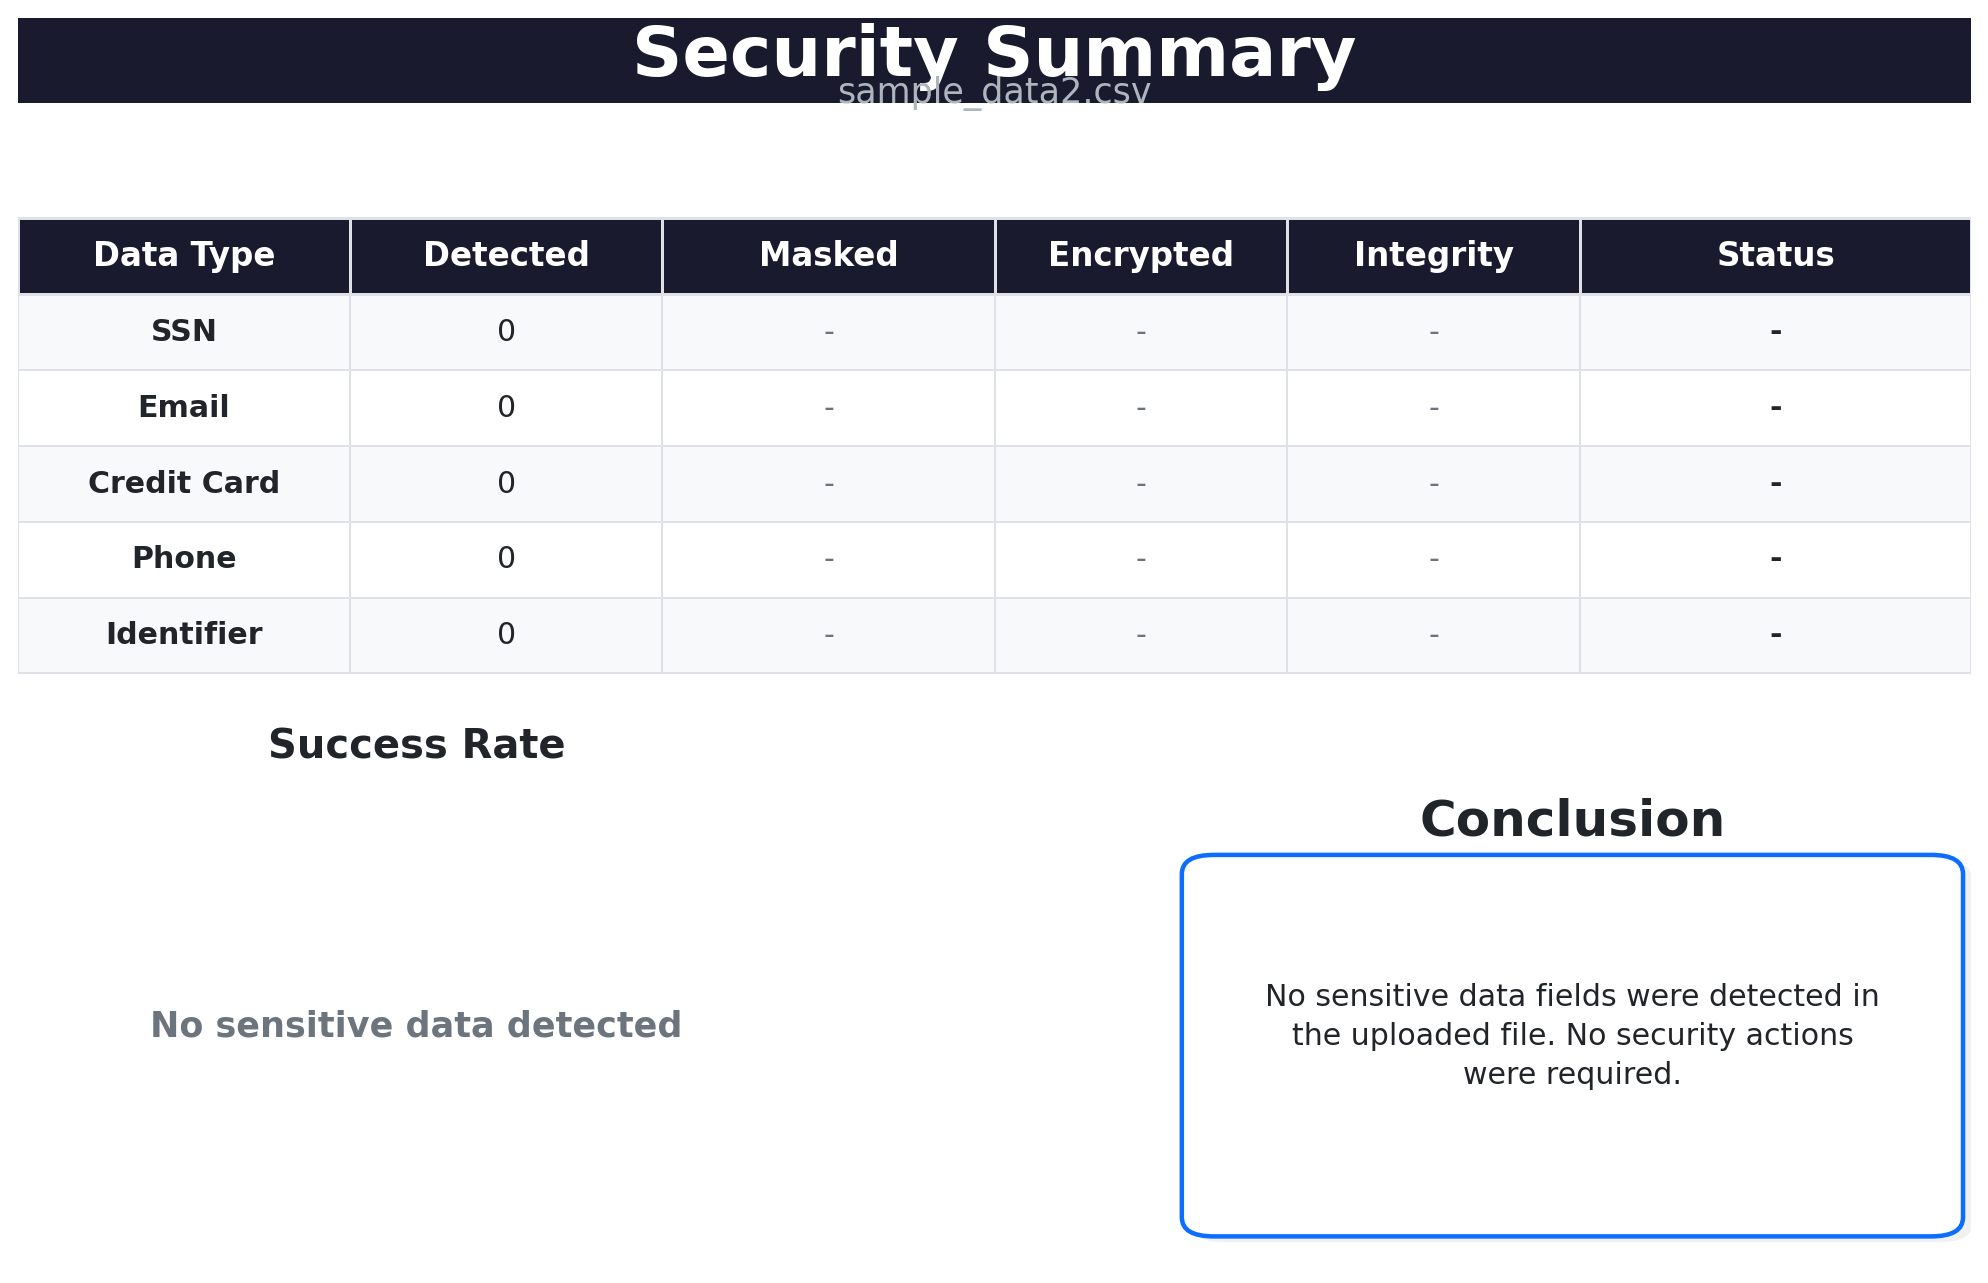
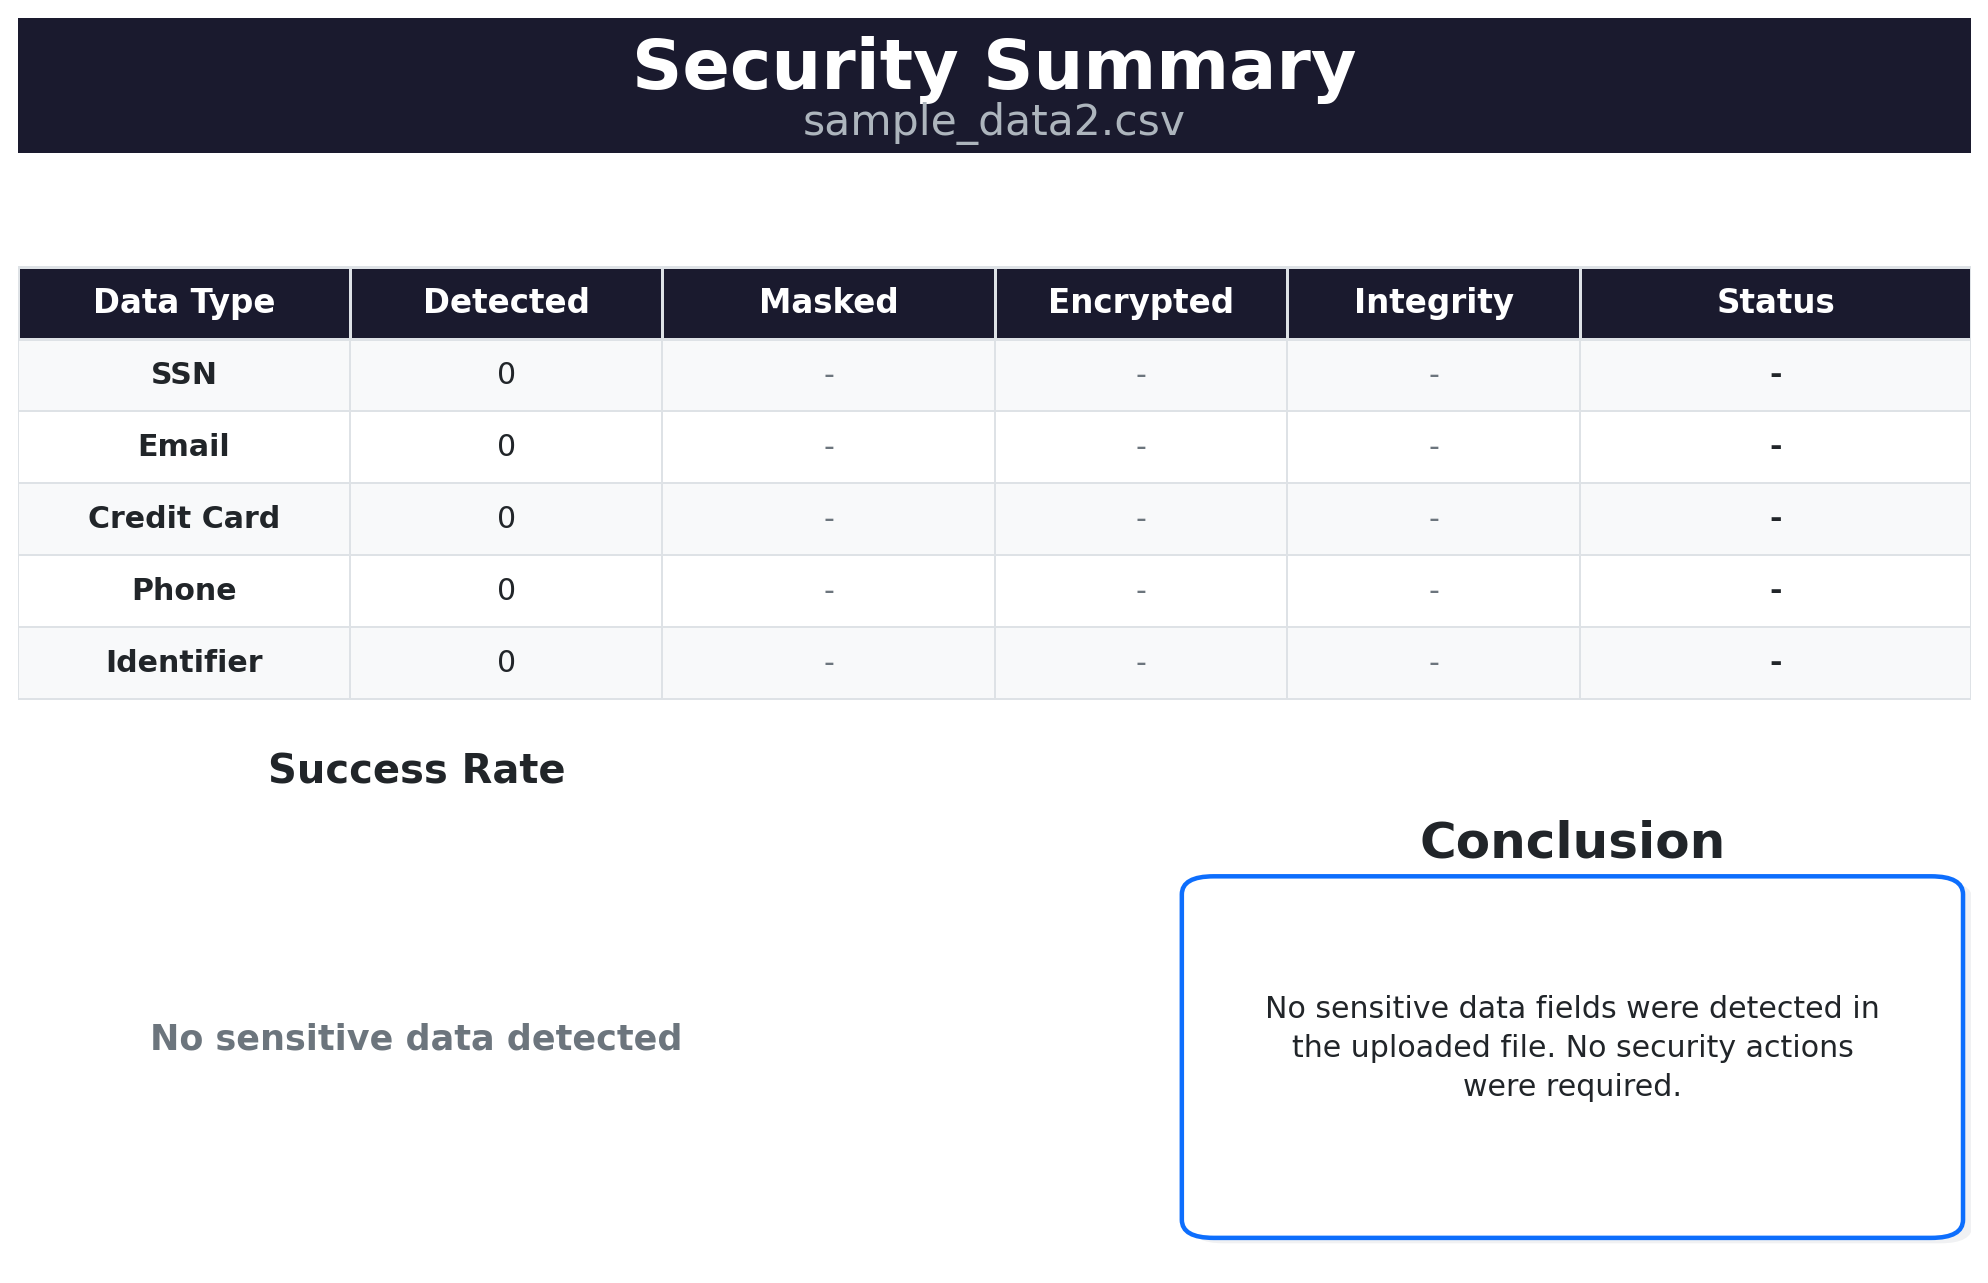
fix: update log timestamps and improve security summary layout

diff --git a/src/reporting.py b/src/reporting.py
@@ -181,7 +181,7 @@ def generate_file_security_summary(
     fig = plt.figure(figsize=(14, 9), facecolor="#ffffff")
     gs = gridspec.GridSpec(
         3, 2,
-        height_ratios=[0.18, 1.0, 1.0],
+        height_ratios=[0.30, 1.0, 1.0],
         width_ratios=[1, 1],
         hspace=0.30,
         wspace=0.45,
@@ -198,15 +198,15 @@ def generate_file_security_summary(
         edgecolor="none", zorder=0,
     ))
     ax_title.text(
-        0.5, 0.55, "Security Summary",
+        0.5, 0.62, "Security Summary",
         ha="center", va="center",
         fontsize=28, fontweight="bold", color=TITLE_FG,
         family="DejaVu Sans",
     )
     ax_title.text(
-        0.5, 0.12, file_path.name,
+        0.5, 0.22, file_path.name,
         ha="center", va="center",
-        fontsize=14, color="#adb5bd", family="DejaVu Sans",
+        fontsize=17, color="#adb5bd", family="DejaVu Sans",
     )
 
     # ── Table (row 1, spans both cols) ─────────────────────────────────
